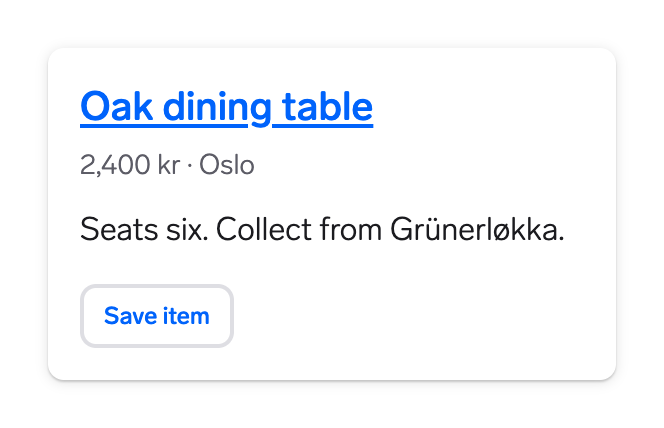
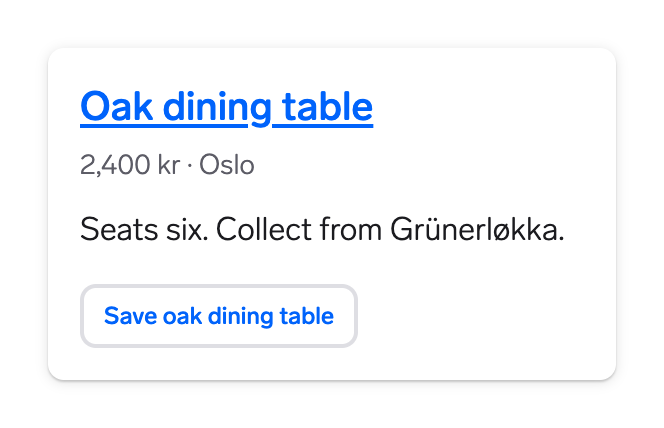
docs(card): address review feedback

Changed region(s): [[0.241, 0.6379, 0.5422, 0.8201]]

diff --git a/docs/components/card/accessibility.md b/docs/components/card/accessibility.md
@@ -6,11 +6,13 @@ Card groups content about one item and its available actions. The content and co
 
 ## Structure and interaction
 
-Give each Card a meaningful heading, such as the listing title. Choose its heading level from the surrounding page structure. Use a list for a collection of results, and keep the reading order consistent with the visual order.
+Give content Cards a meaningful heading, such as the listing title, and choose its level from the surrounding page structure. A choice Card can instead be identified by its visible radio or checkbox label. Use a list for a collection of results, and keep the reading order consistent with the visual order.
 
-Use the control that matches the task: a link for navigation, a [Button](/components/button/overview.md) for an action, a [Checkbox](/components/checkbox/overview.md) for an independent choice, or [Radio](/components/radio/overview.md) for one choice from a group. Card styling does not replace these semantics.
+A Card can be an informational summary, a destination, an action area, or a choice. The surface is a container: a link supplies navigation semantics, a [Button](/components/button/overview.md) supplies action semantics, a [Checkbox](/components/checkbox/overview.md) supplies independent selection, and [Radio](/components/radio/overview.md) supplies one choice from a group.
 
 Keep separate actions independently reachable. A title link and a “Save listing” button need separate names, focus indicators, and activation targets. Do not nest buttons or form controls inside a link, or place them inside an Elements Card with `clickable`. The whole-card handler can receive keyboard events from its children.
+
+In Elements 2.11.0, `clickable` focuses an internal container without an explicit control role or item name, while `selected` on a non-clickable Card inserts an unnamed checked control. Leave both properties unset when composing named links, buttons, radios, or checkboxes inside the Card. See the [Elements Card source](https://github.com/warp-ds/elements/blob/1e9c469c2e6b2a0d4a82417967d696ade7e2235b/packages/card/card.ts).
 
 ## Keyboard
 
@@ -27,43 +29,40 @@ These interactions follow the [link](https://www.w3.org/WAI/ARIA/apg/patterns/li
 
 Card does not manage focus after an action. Keep focus on the active control when saving an item in place. If an action opens a dialog or removes the focused Card, the application must move focus to an appropriate destination. Disable an unavailable action through its actual control; changing the Card's appearance does not prevent activation.
 
-### Elements `clickable`
-
-In Elements 2.11.0, `clickable` adds a tab stop to an internal container. `Enter` or `Space` dispatches a click on the Card; the application supplies the action and updates `selected`. This does not provide radio-group arrow navigation or mutual exclusion. The implementation also has naming and state limitations described below, so prefer a named native control inside a non-clickable Card.
-
 ## Names, roles, and selected state
 
 The primary control's accessible name should identify its destination or action. Use “Apartment in Grünerløkka” as the listing link rather than repeated “Read more” links. Give icon buttons names such as “Save apartment in Grünerløkka”, and include the visible wording in any expanded accessible name so voice control users can refer to it. See [Label in Name](https://www.w3.org/WAI/WCAG22/Understanding/label-in-name.html).
 
-Use a visible group label for related choices and associate it with the group. Each radio or checkbox needs its own label and programmatic checked state. Keep that state synchronised with the application's stored selection and any Card highlight. Supporting descriptions should remain readable; associate essential help with the relevant control when it is needed to make a choice.
+For a destination with a separate action, leave the Card noninteractive and give each control its own name:
+
+```html
+<w-card>
+  <article>
+    <h3><a href="/listings/oak-table">Oak dining table</a></h3>
+    <w-button type="button">Save oak dining table</w-button>
+  </article>
+</w-card>
+```
+
+For a group of selectable Cards, use a visible group label and a labelled radio in each Card. Use checkboxes for independent choices. Keep the control's checked state synchronised with the application's stored selection and any Card highlight.
+
+```html
+<fieldset>
+  <legend>Choose a delivery option</legend>
+  <w-card>
+    <label><input type="radio" name="delivery" value="pickup"> Pick up in store</label>
+  </w-card>
+  <w-card>
+    <label><input type="radio" name="delivery" value="delivery"> Home delivery</label>
+  </w-card>
+</fieldset>
+```
+
+Supporting descriptions should remain readable; associate essential help with the relevant control when it is needed to make a choice.
 
 Describe images that add information. Use an empty text alternative for a decorative image that adds nothing to the adjacent content. Avoid repeating the listing title through an image, a heading link, and another equivalent link. See the [WAI image guidance](https://www.w3.org/WAI/tutorials/images/decorative/).
 
 A screen reader should expose each control's name, role, and applicable state. A coloured border alone cannot supply these details. The [Name, Role, Value requirement](https://www.w3.org/WAI/WCAG22/Understanding/name-role-value.html) applies to the interactive controls, and actual announcements depend on the browser and screen reader.
-
-## Framework differences and limitations
-
-The details below were checked in Elements 2.11.0, Vue 2.3.0, and React 2.3.0. Card’s support matrix lists these Web implementations; it does not list a native iOS or Android Card.
-
-### Elements
-
-A plain `w-card` supplies a visual container and a slot. You supply headings, links, controls, and any list or article structure.
-
-The current implementation separates keyboard focus from the hidden control that carries its state:
-
-- With `clickable`, the focusable internal container has no explicit control role or accessible name. A separate visually hidden button has the translated name “Select” and `aria-pressed`, but is removed from the Tab sequence. The visible Card title is not connected to that button's name.
-- With `selected` and without `clickable`, Card inserts an unnamed, visually hidden checkbox marked checked and disabled. This does not name or implement the actual choice, and can duplicate a checkbox or radio supplied in the content.
-- Card has no disabled property or selection-group behaviour. Setting `aria-disabled` on the host does not stop its click handler or keyboard handler.
-
-For navigation and actions, leave `clickable` and `selected` unset and use a named link or button inside the Card. For choices, use a labelled radio or checkbox and keep `selected` unset in this version to avoid the additional unnamed control. Adding `aria-label` to the Card host does not label the separate internal button. These limitations are visible in the [Elements Card source](https://github.com/warp-ds/elements/blob/1e9c469c2e6b2a0d4a82417967d696ade7e2235b/packages/card/card.ts).
-
-### React and Vue
-
-React and Vue Card render a `div` by default. Their `selected` property changes styling; it does not add checked or pressed semantics or keyboard handling. Changing the wrapper through `as` does not supply a missing control label or selection model.
-
-Their Clickable helpers render a native link when given `href`, a button for an action, or a native radio or checkbox for selection. A decorative toggle indicator does not replace the interactive input. See the [React Card source](https://github.com/warp-ds/react/blob/1a5d50b1752c2c6a3cff7aecb6c7b9e12aca49b7/packages/card/src/component.tsx) and the [Vue Card source](https://github.com/warp-ds/vue/blob/e4c3675a4fd241e9ed1092f89d5afe5ba4126e04/components/card/w-card.vue).
-
-React's Clickable selection branch uses an uncontrolled input and does not pass through `checked` or `defaultChecked`. Use a controlled radio or checkbox when the choice must reflect initial selection, form resets, or updates elsewhere in the application. Keep the actual input state and the Card's `selected` styling consistent. See the [React Clickable source](https://github.com/warp-ds/react/blob/1a5d50b1752c2c6a3cff7aecb6c7b9e12aca49b7/packages/_helpers/clickable.tsx).
 
 ## Visual accessibility
 

diff --git a/docs/components/card/overview.md b/docs/components/card/overview.md
@@ -6,6 +6,29 @@ See also [Box](/components/box/overview.md), [Button](/components/button/overvie
 
 <ComponentsStatus />
 
+## General
+
+Use Card when content forms one recognisable item, such as a listing, recommendation, or guide. A collection of cards helps users scan summaries and decide which item to open or act on.
+
+Card supplies the surface and its visual treatment. You supply the content, padding, layout, headings, links, and controls. A Card can contain information without being interactive; a shadow or border does not make it a button.
+
+- **Grouping:** Keep information about one item together.
+- **Navigation:** Use a link when users open another page or resource.
+- **Selection or action:** Use a labelled control when users choose an item or change something on the current page.
+
+Use [Box](/components/box/overview.md) for a section that does not represent an item. If a choice only needs a short label, such as “Pick up” or “Ship to me”, use [Radio](/components/radio/overview.md) or [Checkbox](/components/checkbox/overview.md) directly. Use Card when each choice needs supporting details, such as a price or delivery terms.
+
+## Visual treatments and states
+
+| Treatment or state | Purpose |
+| --- | --- |
+| Elevated | The default shadow separates the Card from its background. |
+| Flat | A bordered surface gives a quieter treatment. |
+| Selected styling | Card has a visual selected property, but in Elements 2.11.0 it introduces an unnamed checked control. For the choice examples below, use labelled radios or checkboxes and leave Card's `selected` property unset. |
+| Hover and focus | Help users identify the interactive link or control and its focus indicator. |
+
+Selected and focused mean different things: selection records a choice, while focus shows where the next keyboard action will go. Card has no dedicated loading, error, or disabled property; communicate these conditions through its content and controls. Read the [accessibility guidance](/components/card/accessibility.md) before using `clickable` in Elements.
+
 ## Examples
 
 ### Elevated and flat
@@ -54,32 +77,53 @@ The title opens the Radio documentation. The checkbox independently marks the gu
     </w-card>
 </style-isolate>
 
-## General
+### Choice cards
 
-Use Card when the content forms one recognisable item, such as a listing, a recommendation, or a guide. A collection of cards helps users scan summaries and decide which item to open or act on.
+Use a named radio group when people choose one Card, or checkboxes when they may choose several. Keep the controls visible and let each Card's supporting text explain the option.
 
-The component supplies the surface and its visual treatment. You supply the content, padding, layout, headings, links, and controls. A card can contain information without being interactive; a shadow or border does not make it a button.
-
-Keep three decisions separate:
-
-- **Grouping:** Decide which information belongs to the same item.
-- **Navigation:** Use a link when users open another page or resource.
-- **Selection or action:** Use a labelled control when users choose an item or change something on the current page.
-
-For a simple section of related content, [Box](/components/box/overview.md) may be enough. For choices that need only a short label, use [Radio](/components/radio/overview.md) or [Checkbox](/components/checkbox/overview.md) directly.
-
-## Visual treatments and states
-
-| Treatment or state | Purpose |
-| --- | --- |
-| Elevated | The default shadow separates the card from its background. Use it when individual items need a clear boundary. |
-| Flat | A bordered surface gives a quieter treatment. Keep enough separation between neighbouring cards. |
-| Selected | Highlights a chosen item. Keep it synchronised with the actual selection control and application state. |
-| Hover and focus | Help users identify an interactive target. Preserve the focus indicator on the link or control that receives focus. |
-
-Selected and focused mean different things: selection records a choice, while focus shows where the next keyboard action will go. A selected appearance alone does not establish an accessible selection control. Read the [implementation limits](/components/card/accessibility.md#elements) before using the Elements `selected` or `clickable` properties.
-
-Card has no dedicated loading, error, or disabled property. Communicate these conditions through the content and the relevant controls, for example by explaining why a listing is unavailable.
+<style-isolate>
+    <div class="grid gap-24 sm:grid-cols-2">
+        <div>
+            <h3 class="h4 mb-16">Choose one</h3>
+            <w-radio-group label="Delivery method" name="card-delivery">
+                <div class="grid gap-16">
+                    <w-card flat>
+                        <div class="p-16">
+                            <w-radio value="pickup">Pick up</w-radio>
+                            <p class="mt-8 mb-0">Collect your order for free.</p>
+                        </div>
+                    </w-card>
+                    <w-card flat>
+                        <div class="p-16">
+                            <w-radio value="shipping">Ship to me</w-radio>
+                            <p class="mt-8 mb-0">Delivered to your address.</p>
+                        </div>
+                    </w-card>
+                </div>
+            </w-radio-group>
+        </div>
+        <div>
+            <h3 class="h4 mb-16">Choose several</h3>
+            <fieldset>
+                <legend class="mb-16">Guides to save</legend>
+                <div class="grid gap-16">
+                    <w-card flat>
+                        <div class="p-16">
+                            <w-checkbox name="card-guides" value="radio">Radio guide</w-checkbox>
+                            <p class="mt-8 mb-0">Choosing one option from a group.</p>
+                        </div>
+                    </w-card>
+                    <w-card flat>
+                        <div class="p-16">
+                            <w-checkbox name="card-guides" value="checkbox">Checkbox guide</w-checkbox>
+                            <p class="mt-8 mb-0">Choosing independent options.</p>
+                        </div>
+                    </w-card>
+                </div>
+            </fieldset>
+        </div>
+    </div>
+</style-isolate>
 
 ## Anatomy
 
@@ -94,22 +138,5 @@ Card has no dedicated loading, error, or disabled property. Communicate these co
 5. **Secondary action, optional:** Acts on this item independently of the primary link.
 
 The surface belongs to Card. The other parts are content you compose inside it; they are not fixed slots or required properties. Images and badges are optional too. Include them when they help users identify or compare the item.
-
-## Design and implementation
-
-The [Figma Card](https://www.figma.com/design/oHBCzDdJxHQ6fmFLYWUltf?node-id=1379-39480) includes editable heading, detail, body, and link text, with optional image, badge, and button content. The Web Card APIs accept composed content rather than these named text properties.
-
-<div class="table-container" role="region" aria-label="Card implementation comparison" tabindex="0">
-
-| Concept | Elements | React and Vue |
-| --- | --- | --- |
-| Flat surface | `flat` | `flat` |
-| Selected appearance | `selected` | `selected` |
-| Content | Slotted HTML | Children in React; slot content in Vue |
-| Interaction | Links and controls inside the card; `clickable` has accessibility limits | Links, controls, or the framework's `Clickable` helper |
-
-</div>
-
-The examples use Elements 2.11.0. Framework interaction differs; consult [Accessibility](/components/card/accessibility.md) and the [Elements](/components/card/frameworks/elements.md), [React](/components/card/frameworks/react.md), or [Vue](/components/card/frameworks/vue.md) documentation for the implementation you use.
 
 <component-questions />

diff --git a/docs/components/card/usage.md b/docs/components/card/usage.md
@@ -14,7 +14,7 @@ See also [Box](/components/box/overview.md), [Button](/components/button/overvie
 
 ## When another component fits better
 
-- Use [Box](/components/box/overview.md) to group a section of content that does not represent a separate item.
+- Use [Box](/components/box/overview.md) to group a section of content that does not represent a list of related items.
 - Use a simple list when a title and a small amount of text give users everything they need. Adding a surface to every row can make the list harder to scan.
 - Use [Radio](/components/radio/overview.md) for one choice from a short set, or [Checkbox](/components/checkbox/overview.md) for independent selections. Add a card layout only when the choices need richer supporting content.
 - Use [Alert](/components/alert/overview.md) for a message that needs attention, rather than relying on a card's appearance to communicate status.
@@ -26,26 +26,24 @@ Decide whether the item opens a destination, performs an action, or represents a
 | User intent | Recommended interaction |
 | --- | --- |
 | Open the item | Make its title a descriptive link to the destination. |
-| Act on the item | Provide a labelled button, such as “Save item” or “Contact seller”. |
+| Act on the item | Provide a labelled button, such as “Save oak dining table” or “Contact seller”. |
 | Choose one option | Use a labelled radio control within a named group. |
 | Choose any number of items | Use a labelled checkbox for each item. |
 | Read a summary | Keep the card as a noninteractive container. |
 
 ### Primary and secondary actions
 
-Give the card a clear primary destination or action. Additional actions should have distinct labels and remain independently reachable. For example, the title can open a listing while “Save item” saves it.
+Give the card a clear primary destination or action. Additional actions should have distinct labels and remain independently reachable. For example, the title can open a listing while “Save oak dining table” saves it.
 
 Do not wrap a card containing buttons or form controls in a link. Keep those controls separate from the title link so saving an item does not also open it.
 
-If you extend a primary link's pointer target across a card, preserve ordinary link behaviour and the separate targets of any secondary actions. Test opening in a new tab, selecting text, and reaching each control by keyboard. This behaviour depends on the implementation; Card does not supply the same click handling in every framework.
-
-In Elements 2.11.0, `clickable` makes the card surface focusable and forwards Enter or Space to a click handler, but it does not give the focused surface an appropriate role and item name. Use a Card with real links and controls for the patterns above. The [accessibility guidance](/components/card/accessibility.md#elements) explains the limitations.
+If you extend a primary link's pointer target across a Card, preserve ordinary link behaviour and the separate targets of any secondary actions. Test opening in a new tab, selecting text, and reaching each control by keyboard. See [Accessibility](/components/card/accessibility.md) for the controls' semantics.
 
 ### Selection
 
 Show whether users may choose one item or several before they interact. Keep the actual radio or checkbox visible, labelled, and synchronised with the application state. Selecting an item should not unexpectedly navigate away.
 
-Do not rely on the selected border or colour to communicate the choice. In Elements 2.11.0, setting `selected` on a non-clickable card also adds an unnamed checked checkbox to the accessibility tree. For a composition with its own selection control, leave Card's `selected` unset and let that control communicate the state.
+Do not rely on the selected border or colour to communicate the choice. The radio or checkbox must communicate the selected state to assistive technology and remain consistent with what users see.
 
 ## Content and layout
 
@@ -63,7 +61,6 @@ Choose the collection layout according to the available space. Reduce columns as
 
 ### Identify the destination
 
-<div class="card-guidance">
 <DoDont>
 <Do imgurl="/docs/components/card/DoDonts/usage-specific-title-do.png" imgalt="An oak dining table Card with the descriptive title link Oak dining table, followed by its price and collection details.">
 
@@ -78,47 +75,5 @@ Replace the title with a generic link such as “More details”.
 
 </Do>
 </DoDont>
-</div>
-
-### Keep comparable information in order
-
-<div class="card-guidance">
-<DoDont>
-<Do imgurl="/docs/components/card/DoDonts/usage-consistent-order-do.png" imgalt="Dining table and reading chair Cards both show their title first, price second, and location third.">
-
-Present the same types of detail in the same order across a collection.
-
-**Why**: A stable structure helps users find and compare the information they need.
-
-</Do>
-<Do not imgurl="/docs/components/card/DoDonts/usage-consistent-order-dont.png" imgalt="The dining table Card shows title, price, then location, while the reading chair Card changes that order.">
-
-Reorder the details independently on each card.
-
-</Do>
-</DoDont>
-</div>
 
 <component-questions />
-
-<style scoped>
-.card-guidance {
-  container-type: inline-size;
-}
-
-.card-guidance :deep(.do-dont-grid) {
-  grid-template-columns: minmax(0, 1fr) minmax(0, 1fr);
-}
-
-@container (max-width: 620px) {
-  .card-guidance :deep(.do-dont-grid) {
-    grid-template-areas:
-      'do-figure do-figure'
-      'do-pill do-pill'
-      'do-caption do-caption'
-      'dont-figure dont-figure'
-      'dont-pill dont-pill'
-      'dont-caption dont-caption';
-  }
-}
-</style>
